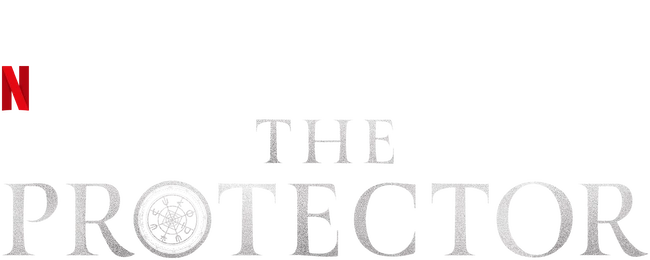
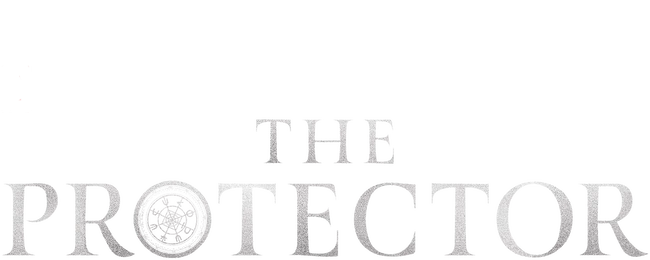
ok

Changed region(s): [[0.0, 0.2462, 0.0615, 0.4308]]

diff --git a/netflix-clone/src/pages/Login/Login.jsx b/netflix-clone/src/pages/Login/Login.jsx
@@ -1,6 +1,6 @@
 import React, { useState } from "react";
 import "./Login.css";
-import logo from "../../assets/logo.png";
+// import logo from "../../assets/logo.png";
 import { auth, db, login, signup, logout } from "../../firebase";
 import Loader from "../../spinner/Loader";
 
@@ -33,7 +33,9 @@ const Login = () => {
 
   return (
     <div className="login">
-      <img src={logo} className="login-logo" />
+      {/* <img src={logo} className="login-logo" /> */}
+      <p className="reminder">Demo Login: Please do not enter real passwords.</p>
+      <p className="reminder">Educational Portfolio Project. Not affiliated with or endorsed by any brand.</p>
       {
         loading ? (
         <Loader />
@@ -78,7 +80,7 @@ const Login = () => {
             <div className="form-switch">
               {signState === "Sign In" ? (
                 <p>
-                  New To Nteflix ?{" "}
+                  New User ?{" "}
                   <span onClick={() => setSignState("Sign Up")}>
                     Sign Up Now
                   </span>

diff --git a/netflix-clone/src/components/Navbar/Navbar.jsx b/netflix-clone/src/components/Navbar/Navbar.jsx
@@ -1,6 +1,6 @@
 import React, { useEffect, useRef } from 'react'
 import "./Navbar.css"
-import logo from "../../assets/logo.png"
+// import logo from "../../assets/logo.png"
 import search_icon from "../../assets/search_icon.svg";
 import bell_icon from "../../assets/bell_icon.svg";
 import profile_img from "../../assets/profile_img.png";
@@ -31,7 +31,7 @@ const Navbar = () => {
   return (
     <div ref={navRef} className="navbar">
       <div className="navbar-left">
-        <img src={logo} alt="netflix-logo" />
+        {/* <img src={logo} alt="netflix-logo" /> */}
         <ul>
           <li>Home</li>
           <li>TV Show</li>
@@ -50,7 +50,7 @@ const Navbar = () => {
                   <img src={caret_img} alt="search_icon" />
                   
                   <div className='dropdown'>
-                      <p onClick={()=>logout()}>Sign Out Of Netflix</p>
+                      <p onClick={()=>logout()}>Sign Out !</p>
                   </div>
         </div>
       </div>

diff --git a/netflix-clone/src/pages/Login/Login.css b/netflix-clone/src/pages/Login/Login.css
@@ -96,3 +96,7 @@
         margin-top: 30px;
     }
 }
+
+.reminder{
+    color: #b3b3b3;
+}

diff --git a/netflix-clone/src/components/Footer/Footer.jsx b/netflix-clone/src/components/Footer/Footer.jsx
@@ -27,7 +27,7 @@ const Footer = () => {
         <li>Corporate Information</li>
         <li>Contact Us</li>
       </ul>
-      <p className="copyright-text">1997-2025 Netflix, Inc.</p>
+      <p className="copyright-text">1997-2026 @Shibasish Das, Inc.</p>
       <p className="disclaimer">Disclaimer : This is an educational portfolio project and is not affiliated with Netflix.</p>
     </div>
   );

diff --git a/netflix-clone/src/components/TitleCards/TitleCards.jsx b/netflix-clone/src/components/TitleCards/TitleCards.jsx
@@ -48,7 +48,7 @@ const TitleCards = ({ title, topic, catagory }) => {
 
   return (
     <div className="title-cards">
-      <h2>{title ? title : "Popular On Netflix"}</h2>
+      <h2>{title ? title : "Populer Shows"}</h2>
       <div className="card-list" ref={cardsRef}>
         {apiData.map((card, index) => {
           return (

diff --git a/netflix-clone/src/pages/Home/Home.jsx b/netflix-clone/src/pages/Home/Home.jsx
@@ -34,7 +34,7 @@ const Home = () => {
             </button>
           </div>
           <TitleCards
-            title={"Populer On Netflix"}
+            title={"Populer Shows"}
             topic={"tv"}
             catagory={"on_the_air"}
           />